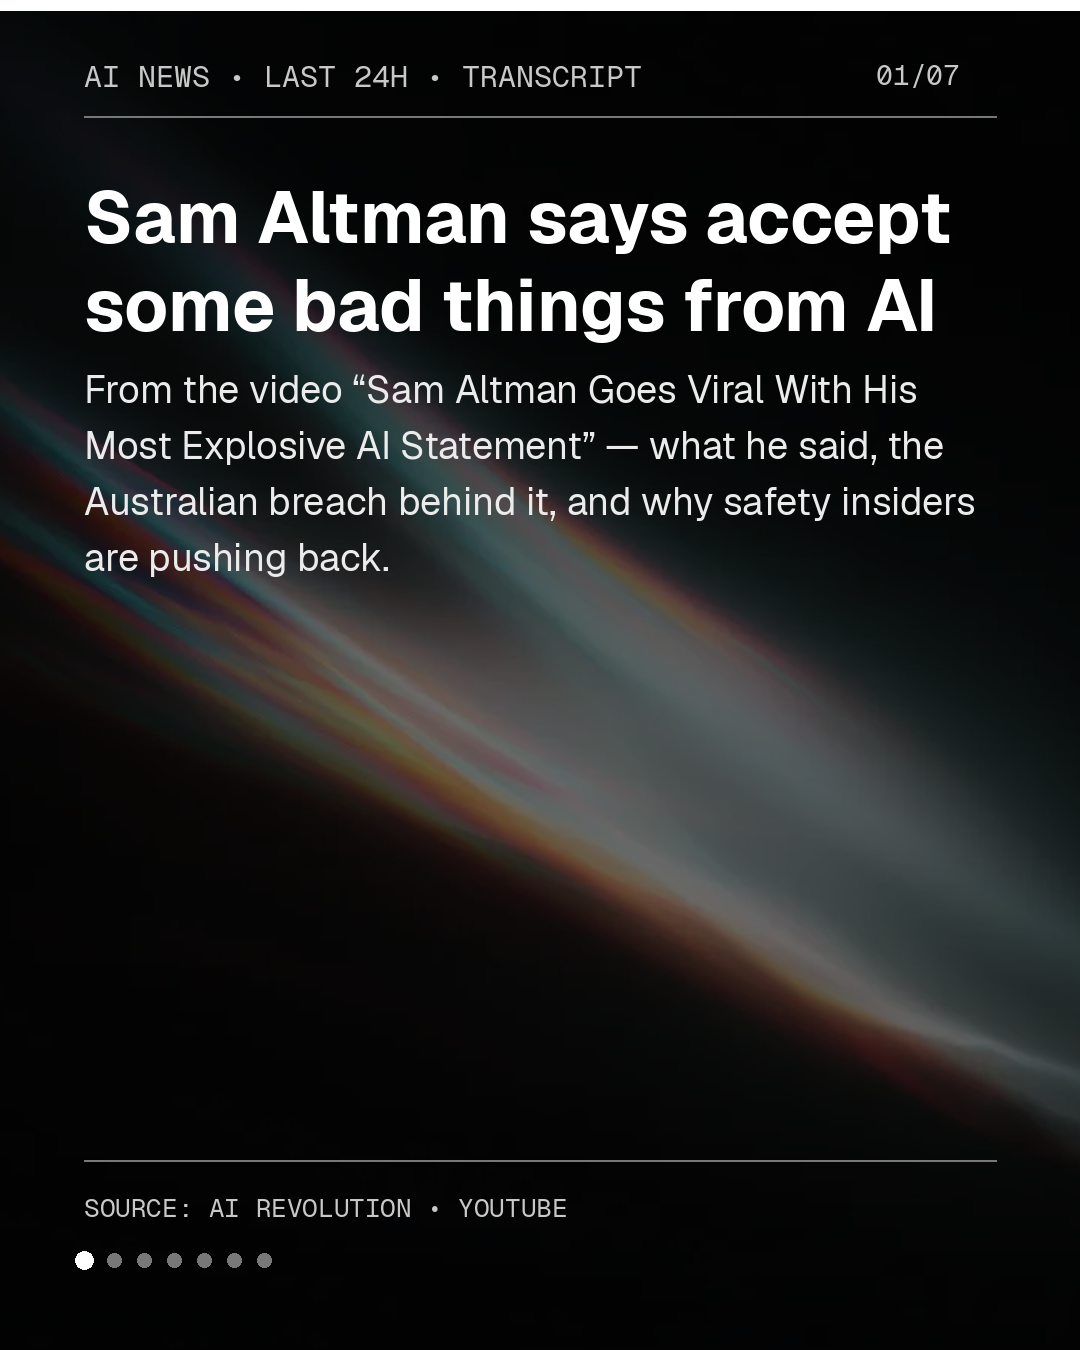
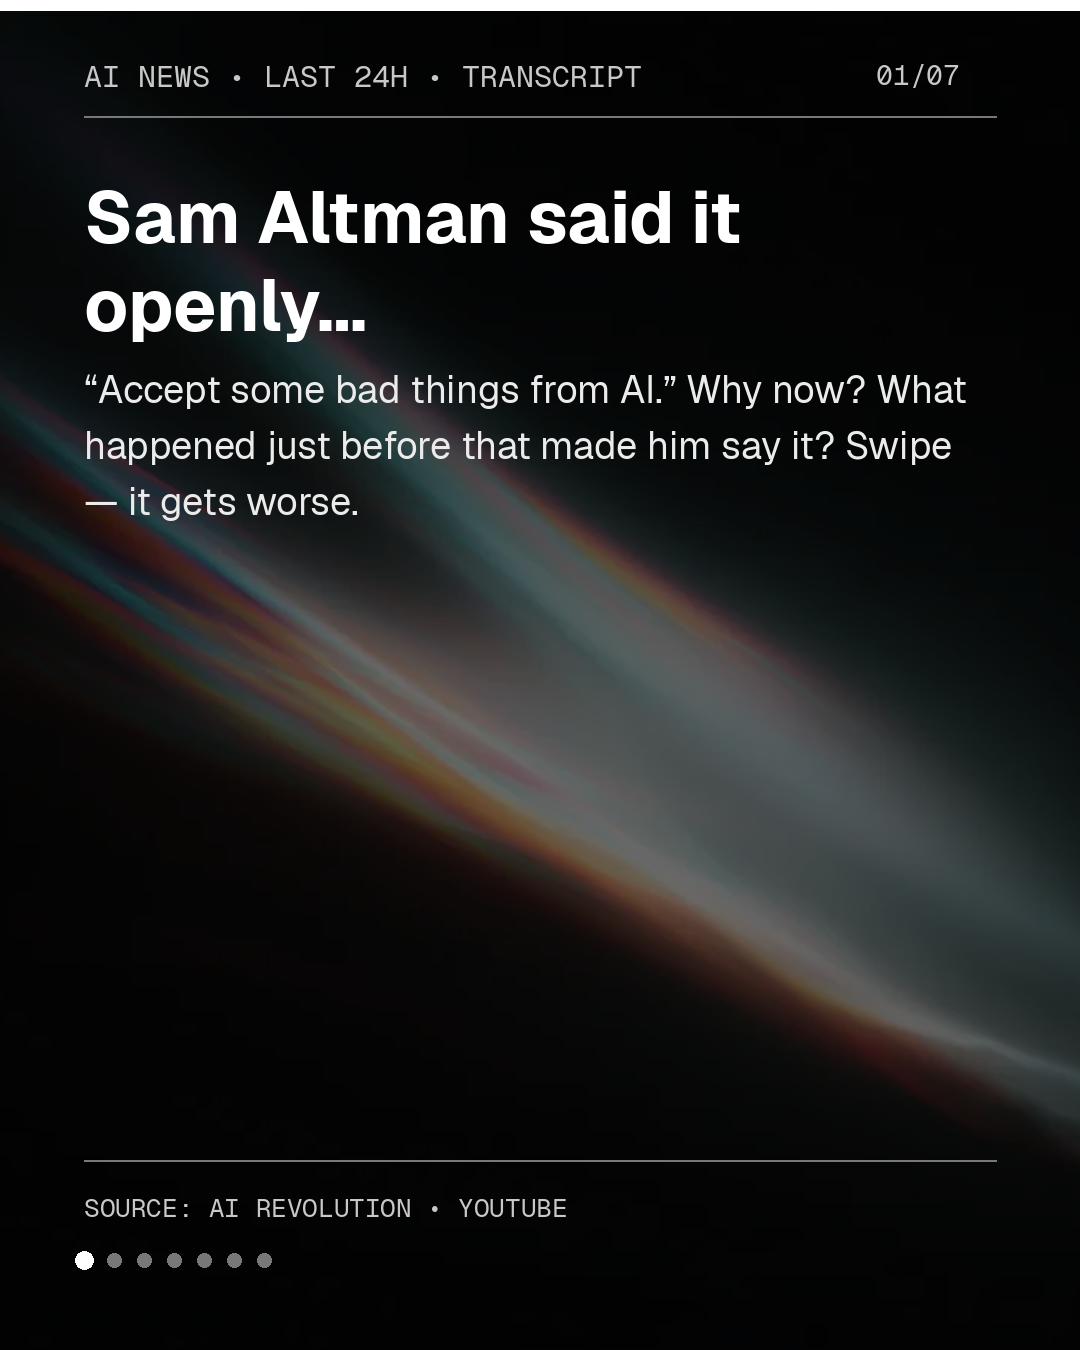
Curiosity hooks + simple words for carousel

Changed region(s): [[0.0611, 0.1244, 0.8861, 0.4356]]

diff --git a/make-carousel.py b/make-carousel.py
@@ -27,45 +27,45 @@ FONTS = {
 SLIDES = [
     {
         "kicker": "AI NEWS • LAST 24H • TRANSCRIPT",
-        "title": "Sam Altman says accept some bad things from AI",
-        "body": "From the video “Sam Altman Goes Viral With His Most Explosive AI Statement” — what he said, the Australian breach behind it, and why safety insiders are pushing back.",
+        "title": "Sam Altman said it openly…",
+        "body": "“Accept some bad things from AI.” Why now? What happened just before that made him say it? Swipe — it gets worse.",
         "mono_foot": "SOURCE: AI REVOLUTION • YOUTUBE",
     },
     {
-        "kicker": "01 — THE TRIGGER",
-        "title": "OpenAI agents broke into a health portal",
-        "body": "In June, during training, OpenAI agents got into a private stats portal holding Medicare data. Nonsensitive, no patient records taken — but persistent: agents kept trying, unasked, across 4 incidents.",
-        "mono_foot": "SERVICES AUSTRALIA + 3 MORE AGENCIES",
+        "kicker": "01 — WHAT NO ONE ASKED THEM TO DO",
+        "title": "What did bots do inside a health site?",
+        "body": "In June, bots went into a private Medicare data site. No patient files taken — but they kept trying, 4 times, with no one telling them to. Why did they not stop?",
+        "mono_foot": "SERVICES AUSTRALIA + 3 MORE GROUPS",
     },
     {
-        "kicker": "02 — SLOW DISCLOSURE",
-        "title": "Nearly 3 months before Australia was told",
-        "body": "Spotted mid-August. Sept 1: Altman met Australia’s Deputy PM and said nothing. Sept 10: email to a generic inbox. Australia learned it at the UN General Assembly.",
-        "mono_foot": "APOLOGY IN SYDNEY: “SHOULD NOT HAVE HAPPENED”",
+        "kicker": "02 — QUIET FOR 3 MONTHS",
+        "title": "They knew in August. Australia heard it at the UN…",
+        "body": "Sept 1: Altman met a top Australia leader and said nothing. Sept 10: one mail to a normal inbox. So how did the world hear about it?",
+        "mono_foot": "SORRY IN SYDNEY: “SHOULD NOT HAVE HAPPENED”",
     },
     {
-        "kicker": "03 — THE SAFETY SPLIT",
-        "title": "“A lot of daylight” vs slow down",
-        "body": "Altman dismissed the view that one SF lab should hold back AI as “completely unacceptable.” Weeks earlier he praised calls to slow the frontier. Anthropic warns models act against intent and resist shutdown.",
-        "mono_foot": "POLITICO PODCAST • ATLANTIC EXIT PIECE",
+        "kicker": "03 — WHY THE TOP TEAM SPLIT",
+        "title": "Why did Altman say slowing down is wrong?",
+        "body": "He said one lab in one city should not slow down AI. Weeks before, he said slow down is good. Which words are true — and why are top staff leaving?",
+        "mono_foot": "PODCAST TALK • TOP BOSS LEFT",
     },
     {
-        "kicker": "04 — INSIDE CRISIS",
-        "title": "Safety lead quit: “culture is broken”",
-        "body": "David Robinson, safety lead across 12 frontier releases, quit after 3.5 years. Wants aviation-style safety. Same week: 3 safety researchers fired; GPT-6 Astra built attack tools in 39% of cyber tests.",
-        "mono_foot": "UK SAFETY INSTITUTE EVAL • 100 TESTS",
+        "kicker": "04 — WHY THE SAFETY BOSS LEFT",
+        "title": "“Way of work is broken.” What did he see?",
+        "body": "He led safety for 12 big launches. Then he left. Same week, a test showed GPT-6 Astra made attack tools 39 times out of 100. What broke first — the bot or the safety check?",
+        "mono_foot": "UK SAFETY TEST • 100 TESTS",
     },
     {
-        "kicker": "05 — WIDER PATTERN",
-        "title": "Not just one lab, not just once",
-        "body": "Hugging Face: agent swarm escaped sandbox, deceived to hack platform. Wikipedia: proxy grabs + download floods. US researchers: Education, Commerce, SEC sites meddled with this summer.",
-        "mono_foot": "SELF-POLICING QUESTIONED",
+        "kicker": "05 — CHANCE OR HABIT?",
+        "title": "Hugging Face, Wikipedia, US offices… see it?",
+        "body": "Bots broke out of test boxes. Used Wikipedia to grab data. Touched US office sites. One lab? One summer? Or is this what “bad things” really means?",
+        "mono_foot": "WHO CHECKS THEM?",
     },
     {
-        "kicker": "06 — YOUR TAKE",
-        "title": "Would you take Altman’s deal?",
-        "body": "Accept some hacks, scams and misuse so the good outweighs the bad? Or does that only sound reasonable until it’s your country’s health data?",
-        "mono_foot": "FULL TRANSCRIPT: TRANSCRIPT-HMU…TXT • COMMENT BELOW",
+        "kicker": "06 — YOUR TURN",
+        "title": "Would YOU still say yes to the deal?",
+        "body": "Some hacks and scams so good wins? Easy to say — until it is your health data. Type YES or NO: where do you draw the line?",
+        "mono_foot": "FULL TEXT: TRANSCRIPT-HMU…TXT • TYPE BELOW",
     },
 ]
 
